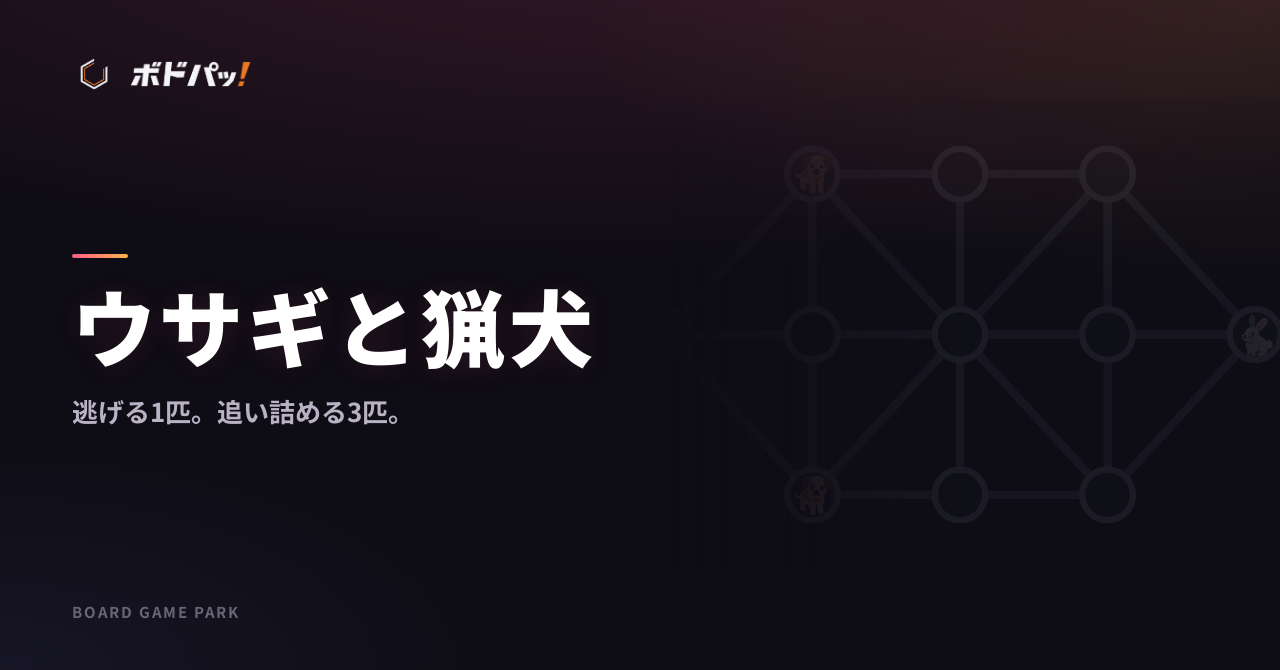
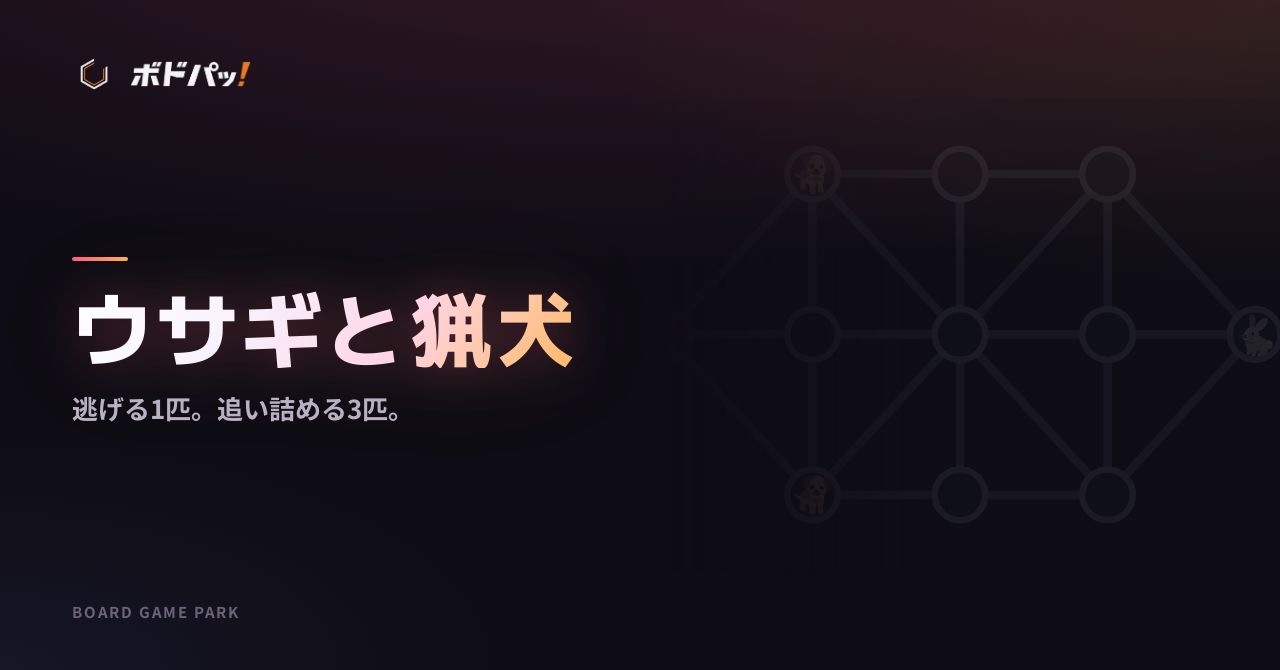
docs: マンカラアイキャッチの盤を濃く・タイトルを1行に

Changed region(s): [[0.0625, 0.4179, 0.4688, 0.5672], [0.0312, 0.597, 0.3125, 0.6567], [0.0625, 0.3582, 0.0938, 0.3881]]

diff --git a/docs/note/eyecatch/README.md b/docs/note/eyecatch/README.md
@@ -10,7 +10,8 @@
 | 左 | ロゴ（シンボル＋ワードマーク）、ゲームタイトル、サブタイトル、`Board Game Park` |
 | 右 | プレイ画面の盤を **約10%の不透明度** で薄く（左へフェード） |
 
-文言は `entries.json` で管理します（各記事の「サムネ用キャッチコピー」と揃えてください）。
+文言は `entries.json` で管理します（各記事の「サムネ用キャッチコピー」と揃えてください）。  
+任意: `boardOpacity`（盤の濃さ）、`titleNoWrap` / `titleFontSize`（長いタイトルの1行表示）。
 
 ## ファイル
 
